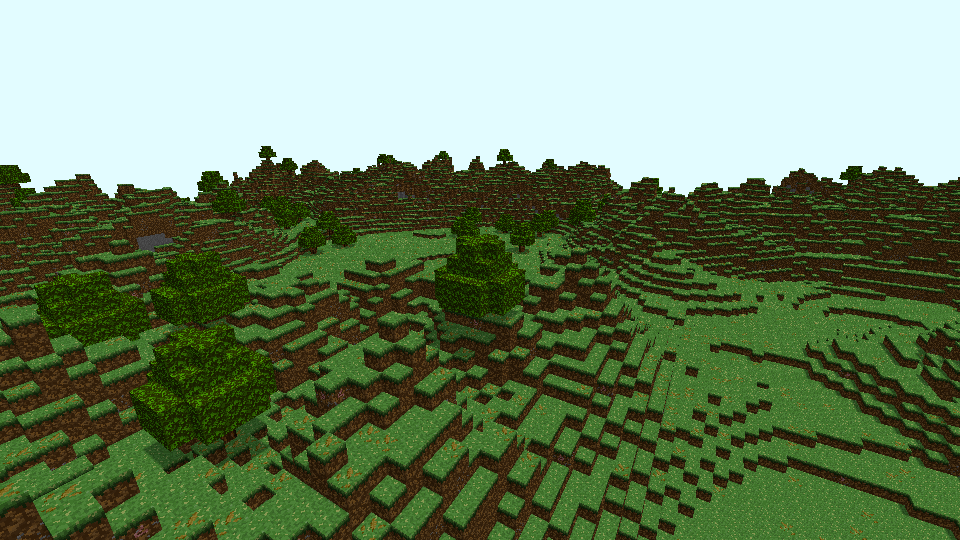
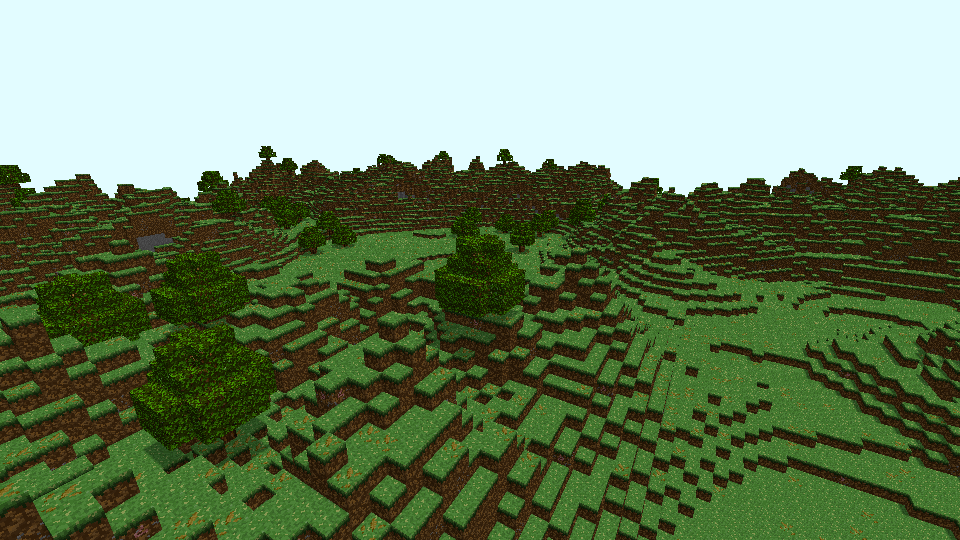
Document leaf cutouts and block interaction checks

diff --git a/docs/player-skins.md b/docs/player-skins.md
@@ -24,9 +24,9 @@ E opens the [inventory](inventory.md), which renders the same skin into a privat
 preview framebuffer. The preview follows the pointer without turning the world
 camera. Equipped leather pieces follow the same body joints in that preview
 and in third person. They use code-colored geometry while dedicated artwork is
-pending; the cap leaves the face visible. Equipment is stored in v5 saves and
-does not change collision dimensions. First-person held-item and armor sleeve
-models remain future work.
+pending; the cap leaves the face visible. Equipment is stored in supported
+inventory saves and does not change collision dimensions. First-person held
+items include the skin's arm and sleeve. Dedicated armor sleeves remain planned.
 
 ## Model and animation
 
@@ -51,12 +51,13 @@ aligned to the feet so rotated legs do not sink into the floor. Physics retains
 its existing one-block crouch collision and immediate posture changes; in a
 one-block passage the full-size visual model can intersect the surrounding blocks.
 
-Punches use a repeating 0.3-second visual cycle sampled from the existing
-`BlockBreaking.elapsed` value. They do not accumulate another gameplay timer.
+Punches use a repeating 0.3-second visual cycle sampled from
+`InputState.breakVisualElapsed`, separately from gameplay breaking progress.
 Progress travels from zero to one, with a forward strike and a lowered recovery
 that returns to rest. The third-person strike also turns the torso and shoulders.
-Resetting/cancelling the break returns the hand to rest, including release,
-changed slots, right-click, flight transitions, pause, and target/reach changes.
+Release, changed slots, right-click, flight transitions, and pauses return the
+hand to rest. While left mouse remains held, the visual cycle continues through
+target changes and block removal; surface cracks still follow gameplay progress.
 Held breaking still removes a block only when the original material duration
 has elapsed. Pauses clear gait and punch state without a resumed-frame jump.
 
@@ -99,9 +100,20 @@ The resting arm leaves aim clear. The strike sweeps inward toward the target,
 with the crosshair and breaking bar drawn over it by the HUD.
 
 Nonempty hands use the shared [3D item models](inventory.md#rendering-and-saves).
-First-person items have an independent depth attachment and are composited over
-the world. World and inventory-preview items follow the corresponding arm's
-joint transforms, including the root pose. The inventory portrait uses neutral
+First-person items and their right/left skinned arms share a private depth
+attachment before compositing over the world. One grip transform drives both
+the arm and item through walking, breaking, and placement, keeping them attached.
+Their depth never changes the world buffer. World and inventory-preview items
+follow the corresponding arm's joint transforms, including the root pose.
+
+![Held stone with its skinned right arm](held-block-arm.png)
+
+This native application fixture shows the current right-arm grip. The matching
+offhand uses the left-arm skin, while an empty main hand retains its separate
+bare-arm pose. Regression captures also cover intermediate breaking and
+placement poses, including the last consumed block in a stack.
+
+The inventory portrait uses neutral
 standing proportions, bounded mouse look, and studio lighting so its head and
 feet remain framed beside the armor slots while world simulation continues.
 Held blocks share the bare hand's asymmetric strike/recovery curve during
@@ -112,7 +124,7 @@ visually until the swing returns to rest.
 Both player passes draw filled geometry even when F4 makes the terrain wireframe,
 then restore the OpenGL state they changed. The skin uses its own texture/shader
 path; it does not add layers or materials to the terrain array. Existing cached
-terrain shadow rendering is unchanged. The player receives day/night directional
+terrain shadows use a separate pass. The player receives day/night directional
 and ambient lighting; dynamic player-cast terrain shadows are not part of this
 renderer.
 

diff --git a/docs/oak-forests.md b/docs/oak-forests.md
@@ -35,19 +35,25 @@ the ground does not change.
 | Oak leaves | 8 | 12 | Supplied leaf tile on all faces | 0.2 s |
 | Leafy grass | 9 | Drops grass item 1 | Leafy top, grass sides, dirt underside | 0.75 s |
 
-The three oak PNGs are unchanged supplied 16×16 opaque RGBA exports in both
+The three oak PNGs are supplied 16×16 RGBA exports, kept identical in both
 `art/` and `src/assets/textures/`. Texture layers 10, 11, and 12 hold bark,
 end grain, and leaves. Explicit leafy ground uses existing layer 5. Original
 block IDs 0–6, item IDs 0–10, and texture layers 0–9 keep their meaning.
 
-Logs and leaves use ordinary solid-block selection, collision, meshing,
-shadows, breaking, drops, 999-item stacking, held models, and placement.
+Logs and leaves use solid-block selection and collision. Leaf alpha below 0.5
+discards both color and depth in terrain, item, and shadow rendering. Opaque
+neighbors retain their faces behind leaf gaps; adjoining leaf cubes share an
+outer shell. Leaf rectangles never act as filled software occluders.
+Logs drop their own item when broken. Leaves drop nothing, including when
+dropped-item storage is full. Existing leaf items retain their ID, 999-item
+stacking, held model, placement, and save support.
 Placed logs remain upright. Put one log in any otherwise empty 2×2 crafting
 grid square to make four oak planks. Output capacity is checked before
 consuming the log; shift-click makes only complete recipes that fit.
 
 The initial six hotbar stacks and leather equipment remain unchanged. Collect
-logs and leaves from the forest. Leafy grass drops ordinary grass, so no extra
+logs from the forest. Breaking leaves does not provide a harvestable item.
+Leafy grass drops ordinary grass, so no extra
 leafy-ground inventory item is exposed.
 
 ## Saves and remaining work
@@ -57,7 +63,8 @@ version. Versions 1–5 still load with their original block/item meanings. A
 loaded generator-1 world can be saved as format 6 without adding trees or
 changing its generator. See [the save format](world-persistence.md).
 
-Leaves are opaque solid cubes. Cutout/translucent leaves, decay, saplings,
+Leaves retain solid-cube collision while their artwork has cutout gaps.
+Translucent leaves, decay, saplings,
 growth, additional tree families, log orientation, tools, and tool-specific
 harvest behavior remain on the content roadmap. Increasing render distance
 does not add streaming, larger world bounds, or distant LOD.
@@ -76,3 +83,21 @@ persistence harness places tree blocks through registered input callbacks and
 checks their terrain, items, and counts after F5, clean exit, and restart.
 These are scripted hidden-window checks; they do not establish physical-input
 feel or long play-session behavior.
+
+The cutout and interaction follow-up passes both native Windows Release and
+Debug suites with MinGW GCC 13.2.0 and Intel UHD Graphics. Source-image probes
+check all 42 transparent and 214 opaque leaf texels, background depth, bark behind
+leaf gaps, and alpha-tested shadow depth. Callback tests confirm leaf removal
+with empty/full drop storage and preserve ordinary log drops. Held-arm checks
+sample 21 phases for breaking and each hand's placement at three framebuffer
+sizes; fractional sleeves are compared against independent alpha composites.
+Crack checks cover six faces, growing coverage, cancellation, removal, foreground
+occlusion, leaf gaps, and preserved depth. The repository CI repeats the CPU,
+sanitizer, and graphical suites with GCC/Clang on Linux; current run results are
+linked from PR #89.
+
+The native build-cache regression also passes all 22 cases with
+`powershell -NoProfile -ExecutionPolicy Bypass -File tests/test_build.ps1`.
+Its header-isolation case uses `world.h`; `chunk.h` is a real dependency of
+command-line render-distance validation and cannot serve as an unrelated-header
+control for `options.o`.

diff --git a/README.md b/README.md
@@ -76,7 +76,7 @@ kernelcraft aims to create a basic Minecraft clone using C and OpenGL. The prima
   - Block placement and destruction, a target outline, crosshair, and nine-slot hotbar with shaded 3D item icons.
   - E opens a 36-slot inventory with 2×2 crafting, armor/offhand slots, stack management, and an equipped-player preview. See [inventory controls and limits](docs/inventory.md).
   - Finite block stacks, collectible mined items, and Q/Ctrl-Q item drops.
-  - Textured 3D blocks and shaped equipment in the inventory, world drops, and both hands. The empty main hand uses the supplied player skin.
+  - Textured 3D blocks and shaped equipment in the inventory, world drops, and both hands, with visible skinned arms and sleeves while holding items.
   - F5 and clean-exit saves restore blocks, position, view, selected slot, inventory, equipment, crafting inputs, cursor items, and world drops.
 
 ## Getting Started
@@ -233,7 +233,8 @@ border marks the selected slot. See [hotbar checks](docs/textured-hotbar.md).
 Breaking by hand takes 0.2 seconds for oak leaves, 0.5 for dirt, 0.75 for grass
 or leafy grass, 1 for oak planks, 1.5 for stone or oak logs, and 2 for
 cobblestone or stone bricks. A gold bar above the
-crosshair shows progress. Keep
+crosshair shows progress. Branching cracks spread and thicken across the target
+as breaking advances, then disappear on removal or cancellation. Keep
 aiming at the same block; releasing left mouse, losing or changing the target,
 or changing its material discards partial progress. Changing hotbar slots,
 right-clicking, toggling flight, or pausing also cancels the hold and requires
@@ -263,7 +264,9 @@ limit. See the movement checkpoint for collision boundaries and test coverage.
 New worlds include oak forests over the existing plains and hills heightmap.
 Trees have upright bark-covered logs, end grain, and layered leaf canopies.
 Leafy grass is much more common near trunks; harvesting it gives ordinary
-grass. Logs and leaves can be collected, held, placed, and saved. One log in
+grass. Logs can be collected, held, placed, and saved. Leaves use the updated
+cutout artwork and drop nothing when broken. Existing leaf items remain usable.
+One log in
 any otherwise empty 2×2 crafting square makes four oak planks. See
 [oak forests](docs/oak-forests.md) for generation and material behavior.
 
@@ -427,6 +430,7 @@ remaining progression are not implemented.
     - The historical atlas image and `atlast.py` are unused by the game; see [texture storage](docs/texture-array.md).
   - [x] Add cloud transparency and alpha blending with path-length opacity
   - [ ] Add transparent voxel materials with matching face visibility and render ordering
+    - [x] Render cutout oak leaves and matching shadows, preserving opaque neighbors behind gaps
   - [x] Add sky colors and drifting blocky clouds (implemented on this branch; PR #60)
   - [x] Improve terrain and block lighting with stable matte shading and linear color; see [lighting behavior and checks](docs/terrain-lighting.md)
   - [x] Add dynamic directional terrain shadows
@@ -603,7 +607,8 @@ remaining progression are not implemented.
   - [ ] Add screen effects such as damage flashes and underwater visuals
   - [ ] Implement block breaking and placement animations
     - [x] Animate held blocks through distinct breaking strike/recovery poses and successful main/offhand placement swings
-    - [ ] Add block-surface crack/break effects and placement impact effects
+    - [x] Add progressive block-surface cracks with cancellation and removal cleanup
+    - [ ] Add block-break particles and placement impact effects
   - [ ] Create item pickup and drop animations
   - [ ] Add status effect visuals for player buffs and debuffs
   - [ ] Implement environmental effects like fog and dynamic lighting

diff --git a/docs/inventory.md b/docs/inventory.md
@@ -51,7 +51,8 @@ after capture is discarded.
 New worlds, and migrations from saves without an inventory, start with 999 of
 each existing material in hotbar slots 1–6: grass, dirt, stone, cobblestone,
 oak planks, and stone bricks. The first four storage slots contain a leather
-cap, tunic, pants, and boots. Logs and leaves are obtained from oak trees.
+cap, tunic, pants, and boots. Logs are obtained from oak trees; leaves drop
+nothing when broken. Existing saved leaf items remain valid and placeable.
 Existing v5/v6 inventories are loaded exactly;
 their contents are never refilled on restart.
 
@@ -71,7 +72,8 @@ remains on the content backlog. It follows the existing body joints; the cap
 leaves the face visible. Armor does not alter collision size or movement.
 Damage reduction is inactive because health and damage mechanics are still
 unimplemented. Selecting a block or equipment item displays its 3D model in the
-right hand; the offhand item appears on the left. An empty main hand displays
+right hand with its skinned arm and sleeve; an occupied offhand draws the left
+arm with that hand's separate skin regions. An empty main hand displays
 the supplied skin's bare arm. Held items follow walking and the existing punch
 cycle without changing block-breaking times. Breaking uses distinct strike and
 recovery poses instead of replaying the same held-block path backward.
@@ -86,8 +88,9 @@ the hand that supplied the block. The renderer keeps the consumed item visible
 through the swing when placement used the last item in that stack. Rejected
 placements do not start the animation.
 
-Completed hand breaking creates one item of the removed material; leafy grass
-gives an ordinary grass block. Logs and leaves each drop their own item. Dropped
+Completed hand breaking creates one item of the removed material except leaves,
+which drop nothing. Leafy grass gives an ordinary grass block, and logs drop
+their own item. Leaf removal never requires free dropped-item storage. Dropped
 blocks use textured 3D cubes; equipment uses shaped colored models with visible
 thickness. Gravity and voxel contact run at 120 Hz, with at most eight steps per
 frame. Nearby items are collected after a short delay, merging into carried

diff --git a/docs/timed-block-breaking.md b/docs/timed-block-breaking.md
@@ -16,8 +16,20 @@ the crosshair fills until the block disappears. Right mouse places once per pres
 | Leafy grass | 0.75 seconds |
 
 Walking, crouching, running, and debug flight use these same rates. Every current
-hotbar slot uses the hand rate, including empty slots. Suitable tools and crack
-textures remain planned.
+hotbar slot uses the hand rate, including empty slots. Suitable tools remain
+planned. Leaves drop nothing when broken; other materials retain their item drops.
+
+Branching surface cracks grow in coverage, width, and darkness as progress
+advances. They use a fixed procedural pattern attached to the target's exposed
+faces, so changing the viewed face does not reset damage. The leaf image masks
+cracks over transparent leaf pixels. Cracks disappear on cancellation, changed
+target/material, loss of reach, or removal. The same effect remains visible in
+wireframe; it writes no world depth and creates no mesh rebuild or buffer upload.
+
+![Progressive cracks during a held break](breaking-cracks.png)
+
+This native application capture uses F4 wireframe to show the crack pattern on
+the targeted block and the skinned arm attached to the held item.
 
 Releasing left mouse discards progress. Losing reach, looking away, aiming at a
 different cell, or observing a different material in the cell also restarts from
@@ -70,6 +82,9 @@ versions. Use `--no-save` or an explicit temporary `--world` path for checks.
   cancellation, empty-slot breaking, held progress across the actual frame loop,
   HUD pixels, completed edits, a non-rest held-item pose on the removal frame,
   and clean neighbor meshes after rendering.
+- `tests/block_crack_checks.h` and `tests/block_crack_live_checks.h`: growth
+  across six faces and live breaking frames, cutout masking, foreground
+  occlusion, stale-target cleanup, and preserved depth and caller GL state.
 - `tests/test_hud.c`: partial bar pixels, visibility while captured, responsive
   landscape/portrait layouts, crosshair and hotbar preservation, and GL state.
 - `tests/app_persistence.c`: a timed callback edit followed by F5, normal-exit

diff --git a/CONTRIBUTING.md b/CONTRIBUTING.md
@@ -23,11 +23,15 @@ Run Debug and sanitizer builds sequentially in one checkout: `test-sanitize`
 also writes the Debug output directories.
 
 Terrain material IDs map to base texture-array layers 0..3, cobblestone layer 7,
-oak planks layer 8, and stone bricks layer 9. The fragment shader
+oak planks layer 8, stone bricks layer 9, log bark/end grain layers 10/11,
+and cutout oak leaves layer 12. The fragment shader
 selects per-block variants from layers 4..6 using world position and seed.
 Keep that ordering consistent across the mesher, renderer, and shader. New layers must match the existing
 tile dimensions; preserve repeated UVs and extend the independent material
 pixel comparisons when changing face mapping or sampling.
+Leaf alpha is binary: discard holes in both color and shadow passes, preserve
+opaque neighbors behind them, and never use leaf rectangles as solid software
+occluders. Leaves remain solid for collision and drop nothing when broken.
 
 Add tests for observable defects and boundary cases. CPU tests must not create
 an OpenGL context. The application smoke harness substitutes GLFW event/input
@@ -108,3 +112,11 @@ Check the preview's head/feet framing against the helmet/boot column, then resiz
 to portrait. Run item geometry, source-face rendering, held-depth isolation,
 allocation-failure, and live inventory regressions. Use the existing supplied
 PNGs; primitive equipment models do not complete the dedicated-artwork backlog.
+
+Check the skinned forearm and wrist throughout breaking and placement, including
+early/late phases and offhand placement; a visible resting hand alone is not
+sufficient. Arms and held items share private depth, with fractional sleeves
+blended after opaque geometry. Surface cracks follow gameplay breaking progress
+and must vanish after removal, cancellation, or a target/material change. Inspect
+leaf cracks over transparent texels and repeat in wireframe. The corresponding
+item, cutout/shadow, crack, and live application regressions run under `-Test`.

diff --git a/art/README.md b/art/README.md
@@ -6,7 +6,8 @@ This folder also contains a PNG copy of every current texture for easy viewing.
 The PNGs have the same filenames and contents as `src/assets/textures/`.
 
 The game loads thirteen individual PNGs in `src/assets/textures/`. Keep these
-exports at 16 by 16 pixels, fully opaque RGBA, with their existing filenames.
+exports at 16 by 16 pixels in RGBA, with their existing filenames. Ordinary
+terrain tiles are opaque; `oak-leaves.png` uses binary alpha for cutout gaps.
 The renderer repeats them with nearest sampling; the hotbar uses the same
 material images. Keep the grass top, side, and terrain variants separate.
 After exporting a texture, update both its runtime PNG and the matching PNG
@@ -14,7 +15,10 @@ here so the viewable artwork stays current.
 
 The supplied oak exports are `oak-log-side.png`, `oak-log-top.png`, and
 `oak-leaves.png`. Logs use bark on four sides and end grain on both ends;
-leaves use their opaque tile on every face. Leafy ground uses the existing
+leaves use their cutout tile on every face. The current leaf export has 42
+transparent and 214 opaque pixels; terrain, items, shadows, and breaking cracks
+respect those gaps. Fractional-alpha foliage is not implemented.
+Leafy ground uses the existing
 `grass-top-leaves.png`. These exports do not require changes to the atlas or
 editable source files to load in game.
 

diff --git a/docs/content-roadmap.md b/docs/content-roadmap.md
@@ -37,7 +37,8 @@ explorable Cube World-inspired direction through coherent content sets.
 - [x] Oak planks: solid building block, initially in hotbar slot 5.
 - [ ] Stripped logs, bark blocks, and planks for the remaining wood families.
 - [ ] Leaves with defined cutout rendering, transparency sorting needs, and decay rules.
-  - [x] Opaque oak leaf cubes using the supplied artwork; cutout rendering and decay remain planned.
+  - [x] Cutout oak leaves using the supplied artwork, matching shadow gaps, and no item drop when broken.
+  - [ ] Leaf decay and translucent foliage with appropriate render ordering.
 - [ ] Saplings, roots, branches, and stumps, including growth and harvest behavior.
 - [ ] Tall grass, ferns, reeds, cattails, and dry shrubs.
 - [ ] Flowers in several shapes and colors; include garden planting and dye uses.

diff --git a/docs/forest-performance.md b/docs/forest-performance.md
@@ -1,5 +1,10 @@
 # Oak forests and chunk rendering
 
+The measurements below record the initial opaque-leaf implementation at
+`0cd9384`, with documentation at `94c8285`. The later cutout-leaf artwork exposes
+additional neighboring faces and adds alpha tests, and held items now include
+arms. Those changes are not part of these archived timing comparisons.
+
 The default horizontal chunk-center radius is now 12 chunks (192 blocks), up
 from 6 (96 blocks). `--render-distance N` accepts 1–16 chunks. The finite world
 still contains 256 resident chunks; this change does not add streaming or LOD.
